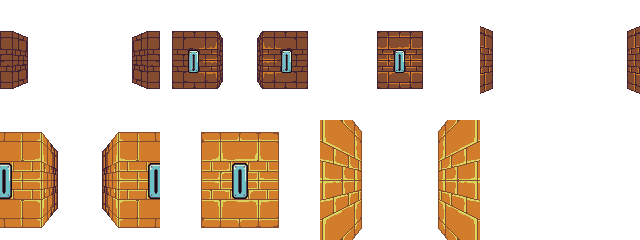
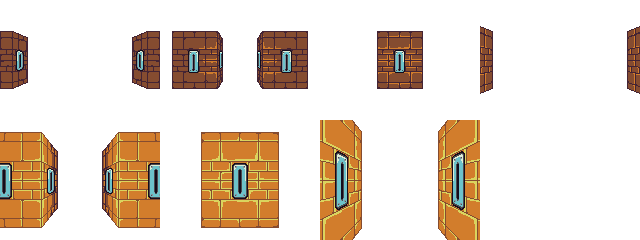
Fixing some tiles - fix #16

diff --git a/pdf_game/mod/world.py b/pdf_game/mod/world.py
@@ -178,7 +178,7 @@ def _patch_tiles(_map):
     tiles = [list(row) for row in _map.tiles]
     # if _map.name == 'Serf Quarters':  tiles[3][1] = 34  # test bookshelf
     # if _map.name == 'Serf Quarters':  tiles[3][1] = 48  # test staff-in-lever
-    # if _map.name == 'Serf Quarters':  # portals test map (exit must also be disabled)
+    # if _map.name == 'Serf Quarters':  # portals test map (_patch_exits() must also return [])
     #     return [
     #         [2, 2, 2, 2, 2, 2, 2, 2],
     #         [2, 2, 5, 2, 2, 5, 2, 2],
@@ -188,6 +188,16 @@ def _patch_tiles(_map):
     #         [2, 5, 6, 6, 6, 6, 5, 2],
     #         [2, 5, 5, 5, 5, 5, 5, 2],
     #         [2, 2, 2, 2, 2, 2, 2, 2],
+    #     ]
+    # if _map.name == 'Serf Quarters':  # levers test map (_patch_exits() must also return [])
+    #     return [
+    #         [2,  2,  2, 48,  2,  2,  2],
+    #         [2,  1,  1, 48,  1,  1,  2],
+    #         [2,  1,  1,  1,  1,  1,  2],
+    #         [49,49,  1,  1,  1, 50, 50],
+    #         [2,  1,  1,  1,  1,  1,  2],
+    #         [2,  1,  1, 51,  1,  1,  2],
+    #         [2,  2,  2, 51,  2,  2,  2],
     #     ]
     if _map.name == 'Monk Quarters':  # new map: Scriptorium
         return [  # This is meant as a simple enigma & tutorial map

diff --git a/CHANGELOG.md b/CHANGELOG.md
@@ -6,9 +6,10 @@ and this project adheres to [Semantic Versioning](http://semver.org/).
 
 ## [1.0.3] - Not released yet
 ### Fixed
-- broken path to abyss secret in a specific case - _cf._ [PR #24](https://github.com/Lucas-C/undying-dusk/pull/24)
 - display final end cut-scene - _cf._ [PR #15](https://github.com/Lucas-C/undying-dusk/pull/15)
 - more than 45 typos, thanks to @Phoenyx65535 - _cf._ [issue #20](https://github.com/Lucas-C/undying-dusk/issues/20)
+- broken path to abyss secret in a specific case - _cf._ [PR #24](https://github.com/Lucas-C/undying-dusk/pull/24)
+- fixing image assets for some tiles - _cf._ [issue #16](https://github.com/Lucas-C/undying-dusk/issues/16)
 - overlapping link to [JourneyToTheEastRocks.ogg](https://chezsoi.org/lucas/undying-dusk/music/AlexandrZhelanov-JourneyToTheEastRocks.ogg) - _cf._ [issue #17](https://github.com/Lucas-C/undying-dusk/issues/17)
 
 ## [1.0.2] - 2021-05-12
